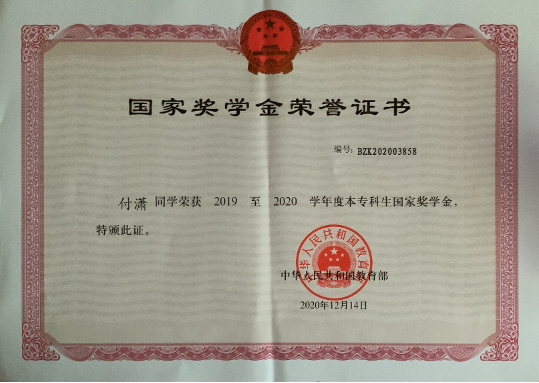
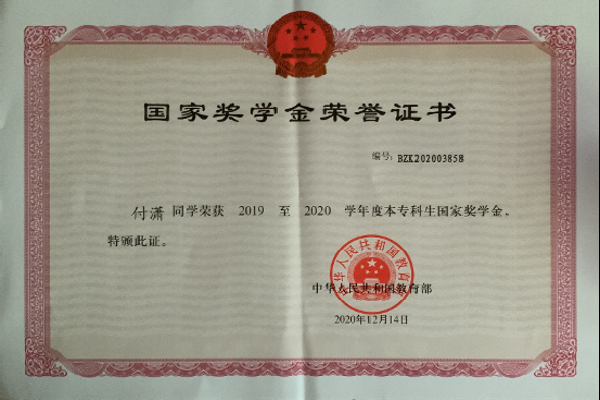
xiaofu

diff --git a/memory.html b/memory.html
@@ -95,12 +95,12 @@
     <h2 style="text-align:center; margin-top:80px">Zhejiang University(2018-2022)</h2>
     <div class="responsive">
       <div class="img">
-        <img src="/assets/img/memory/isee_honor.jpeg" alt="ISEE Excellent Student">
+        <img src="/assets/img/memory/isee_honor.png" alt="ISEE Excellent Student">
         <div class="desc">ISEE Excellent Student</div>
       </div>
       <div style="margin-bottom:20px"> </div>
     </div>
-    
+
 
     <div class="responsive">
       <div class="img">
